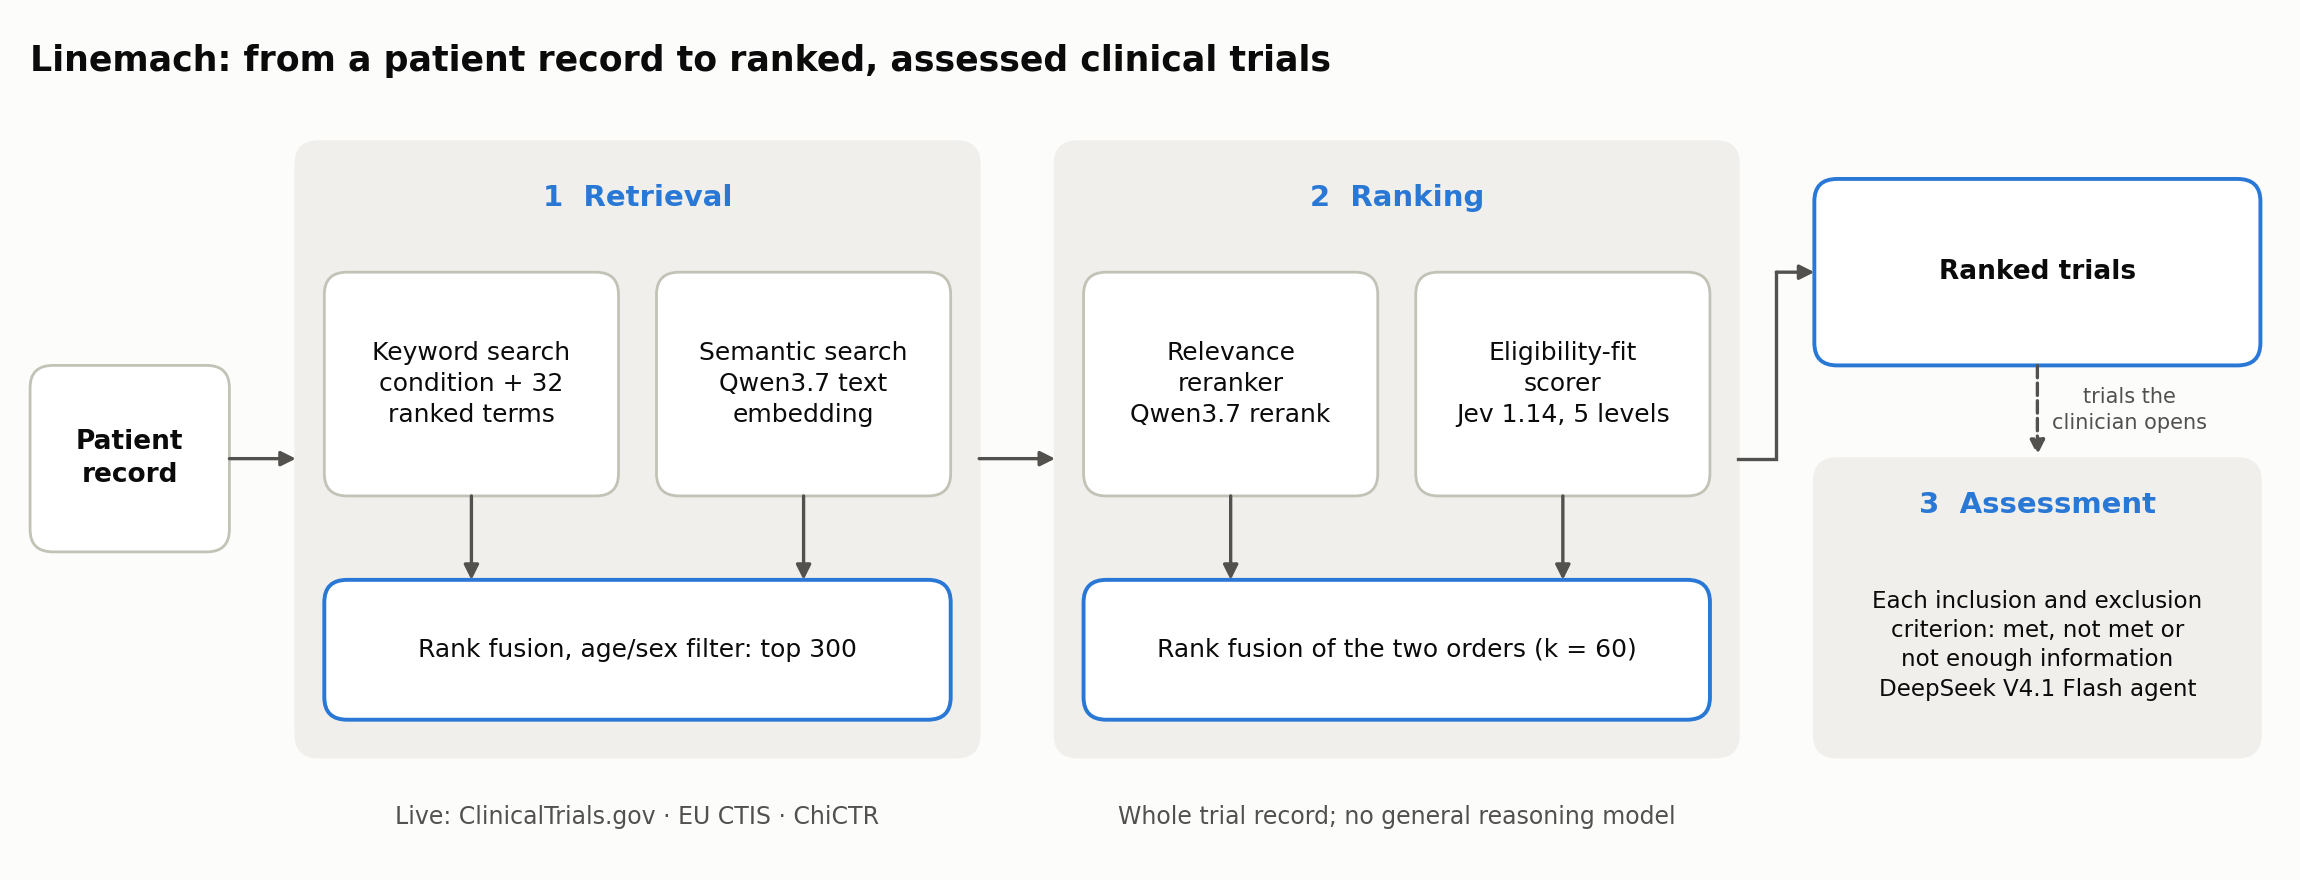
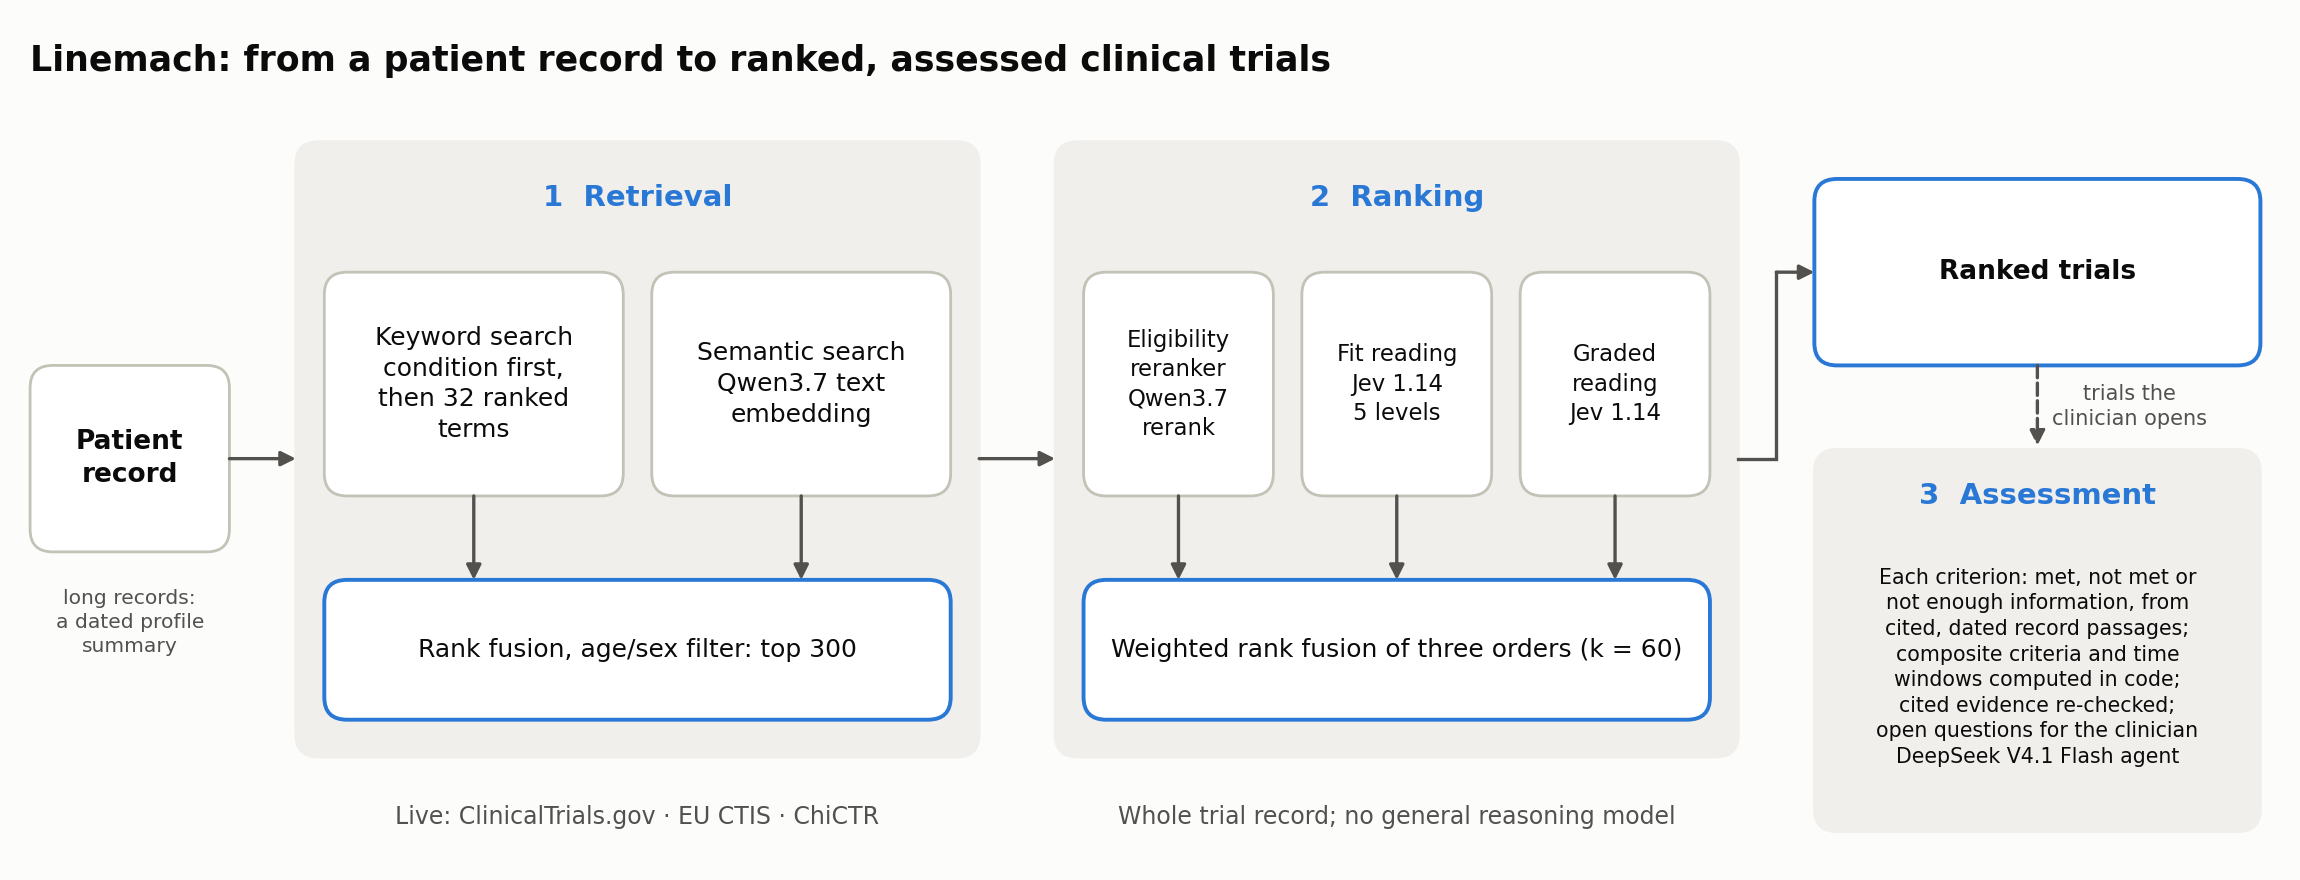
feat(matching): gate G1 — a project-scoped study's matching runs on the plugin in the study's own conversation; architecture figure shows three ranking orders
The legacy bridge routed only conversation studies to the plugin; a project study (scope project, its own recorded conversation)
went to the batch judge. resolveOrigin now takes the study's own conversation (created when absent) and taskContext resolves that
conversation to the project study, so the host adapter's checks hold. Only a deployment without the plugin's catalogue keeps the
batch judge; deleting it waits for the plugin in every deployment.

diff --git a/docs/triallink/make_figures.py b/docs/triallink/make_figures.py
@@ -143,7 +143,7 @@ def leaderboard(data, out):
 
 
 def architecture(out):
-    """One pipeline, three stages: retrieval (two searches fused), ranking (two readings fused) and the criterion-level assessment."""
+    """One pipeline, three stages: retrieval (two searches fused), ranking (three orders fused) and the criterion-level assessment."""
     fig, ax = plt.subplots(figsize=(11.5, 4.4), facecolor=SURFACE)
     ax.set_facecolor(SURFACE)
     ax.set_xlim(0, 120)
@@ -161,34 +161,36 @@ def architecture(out):
         ax.add_patch(FancyArrowPatch((x0, y0), (x1, y1), arrowstyle="-|>", mutation_scale=11, color=INK_2, linewidth=1.2,
                                      linestyle="--" if dashed else "-", shrinkA=0, shrinkB=0))
 
-    def stage(x, number, name, left, right, merged, note):
+    def stage(x, number, name, chips, merged, note):
         box(x, 6, 36, 33, panel, edge=panel)
         text(x + 18, 36, f"{number}  {name}", size=10.5, weight="bold", color=ACCENT)
-        box(x + 1.5, 20, 15.5, 12, chip); text(x + 9.25, 26, left)
-        box(x + 19, 20, 15.5, 12, chip); text(x + 26.75, 26, right)
+        width = (33 - 1.5 * (len(chips) - 1)) / len(chips)
+        for index, chip_text in enumerate(chips):
+            left = x + 1.5 + index * (width + 1.5)
+            box(left, 20, width, 12, chip); text(left + width / 2, 26, chip_text, size=9 if len(chips) == 2 else 8.2)
+            arrow(left + width / 2, 20, left + width / 2, 15.5)
         box(x + 1.5, 8, 33, 7.5, chip, edge=ACCENT, lw=1.4); text(x + 18, 11.75, merged)
-        arrow(x + 9.25, 20, x + 9.25, 15.5)
-        arrow(x + 26.75, 20, x + 26.75, 15.5)
         text(x + 18, 2.8, note, size=8.5, color=INK_2)
 
     text(1, 43.3, "Linemach: from a patient record to ranked, assessed clinical trials", size=12.5, weight="bold", ha="left")
     box(1, 17, 10.5, 10, chip)
     text(6.25, 22, "Patient\nrecord", size=9.5, weight="bold")
-    stage(15, 1, "Retrieval", "Keyword search\ncondition + 32\nranked terms", "Semantic search\nQwen3.7 text\nembedding",
+    text(6.25, 13.2, "long records:\na dated profile\nsummary", size=7.3, color=INK_2)
+    stage(15, 1, "Retrieval", ["Keyword search\ncondition first,\nthen 32 ranked\nterms", "Semantic search\nQwen3.7 text\nembedding"],
           "Rank fusion, age/sex filter: top 300", "Live: ClinicalTrials.gov · EU CTIS · ChiCTR")
-    stage(55, 2, "Ranking", "Relevance\nreranker\nQwen3.7 rerank", "Eligibility-fit\nscorer\nJev 1.14, 5 levels",
-          "Rank fusion of the two orders (k = 60)", "Whole trial record; no general reasoning model")
+    stage(55, 2, "Ranking", ["Eligibility\nreranker\nQwen3.7\nrerank", "Fit reading\nJev 1.14\n5 levels", "Graded\nreading\nJev 1.14"],
+          "Weighted rank fusion of three orders (k = 60)", "Whole trial record; no general reasoning model")
     box(95, 27, 23.5, 10, chip, edge=ACCENT, lw=1.4)
     text(106.75, 32, "Ranked trials", size=9.5, weight="bold")
-    box(95, 6, 23.5, 16, panel, edge=panel)
-    text(106.75, 19.5, "3  Assessment", size=10.5, weight="bold", color=ACCENT)
-    text(106.75, 12, "Each inclusion and exclusion\ncriterion: met, not met or\nnot enough information\nDeepSeek V4.1 Flash agent", size=8.3)
+    box(95, 2, 23.5, 20.5, panel, edge=panel)
+    text(106.75, 20, "3  Assessment", size=10.5, weight="bold", color=ACCENT)
+    text(106.75, 10.8, "Each criterion: met, not met or\nnot enough information, from\ncited, dated record passages;\ncomposite criteria and time\nwindows computed in code;\ncited evidence re-checked;\nopen questions for the clinician\nDeepSeek V4.1 Flash agent", size=7.4)
     arrow(11.5, 22, 15, 22)
     arrow(51, 22, 55, 22)
     ax.plot([91, 93, 93], [22, 22, 32], color=INK_2, linewidth=1.2, solid_joinstyle="miter")
     arrow(93, 32, 95, 32)
-    arrow(106.75, 27, 106.75, 22.2, dashed=True)
-    text(111.6, 24.6, "trials the\nclinician opens", size=7.5, color=INK_2)
+    arrow(106.75, 27, 106.75, 22.7, dashed=True)
+    text(111.6, 24.8, "trials the\nclinician opens", size=7.5, color=INK_2)
     fig.tight_layout(pad=0.4)
     for suffix in ("svg", "png"):
         fig.savefig(HERE / f"{out}.{suffix}", dpi=200, facecolor=SURFACE, metadata={"Date": None} if suffix == "svg" else None)
